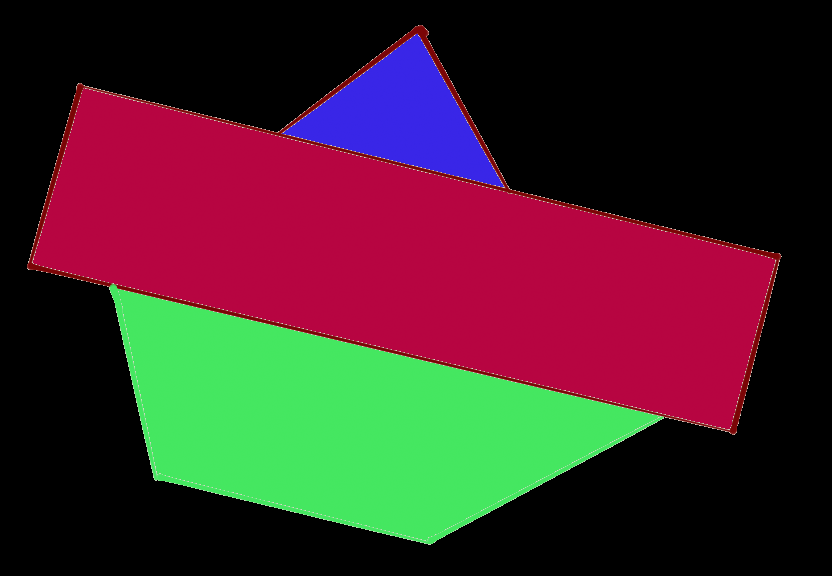
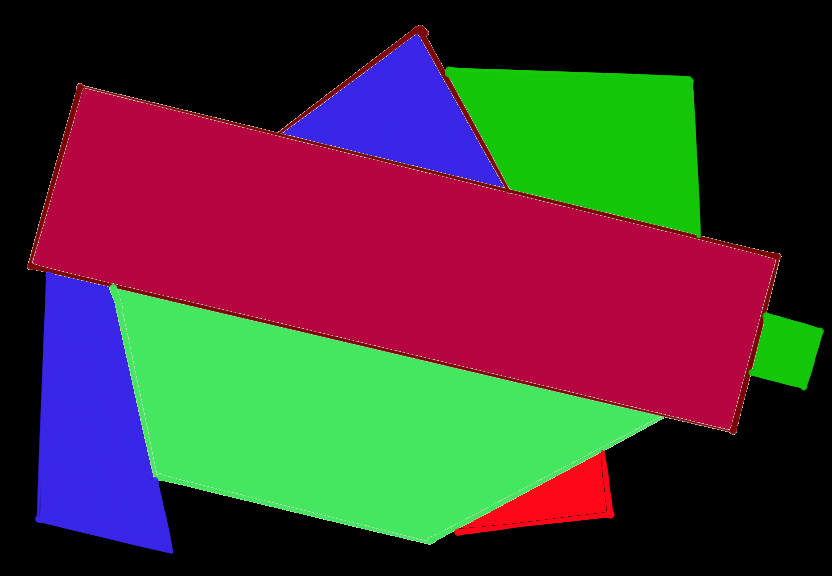
deal with the adjacent shapes (color classification)

diff --git a/traditional_method/shape_detection/detect_shapes.py b/traditional_method/shape_detection/detect_shapes.py
@@ -18,9 +18,12 @@ from traditional_method.shape_detection.pyimagesearch.ImageType import Image
 # the shapes can be approximated better
 # image_name = args['image']
 # debug = args['debug']
-image_name = 'shapes_and_colors.png'
+image_name = 'adjoin.png'
 if __name__ == '__main__':
     image = Image(debug=True)
     image.only_read(image_name)
+    image.detect_by_color(color='red')
+    image.detect_by_color(color='green')
     image.detect_by_color(color='blue')
+    print(len(image.Shapes))
     # image.detect_shapes()

diff --git a/traditional_method/shape_detection/pyimagesearch/ImageType.py b/traditional_method/shape_detection/pyimagesearch/ImageType.py
@@ -31,7 +31,7 @@ class Image:
         self.original_image = cv2.imread(image_name)
 
     def detect_by_color(self,color):
-        
+
         if color == 'blue':
             low = (100, 90, 90)
             high= (140, 255, 255)
